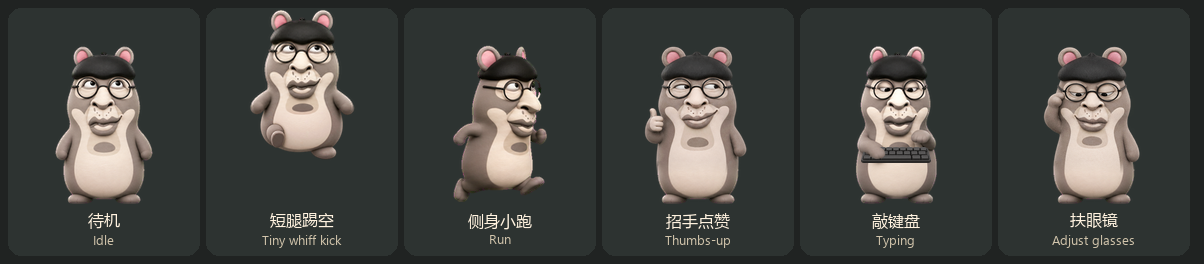
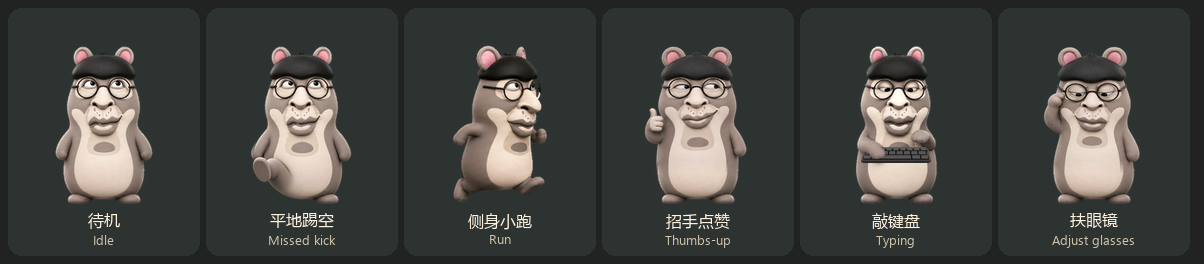
Separate the grounded kick from the hover jump

Changed region(s): [[0.1844, 0.0303, 0.3073, 0.7879], [0.2151, 0.7879, 0.2766, 0.9394]]

diff --git a/README.md b/README.md
@@ -1,22 +1,22 @@
 # 飞飞鼠 · Feifeishu for Codex
 
-飞飞鼠是可以装进 **Codex 桌面应用**的 Faker 梗图桌宠，也叫大飞鼠、飞天鼠。它戴着圆眼镜，努力朝镜头蹬了一下，结果小短腿够不着，忙着收脚站稳。
+飞飞鼠是可以装进 **Codex 桌面应用**的 Faker 梗图桌宠，也叫大飞鼠、飞天鼠。它戴着圆眼镜，一只脚踩地，另一条腿努力朝镜头伸一下，踢空了才捂脸偷看。
 
-**Feifeishu** is an animated **Codex desktop pet** inspired by the **Faker Flying Squirrel** and **Faker Flying Mouse** memes. Hover over it and watch its tiny leg swing, miss, and scramble back into balance. It also waves, types with alternating paws, and pushes up its glasses during review.
+**Feifeishu** is an animated **Codex desktop pet** inspired by the **Faker Flying Squirrel** and **Faker Flying Mouse** memes. When a task fails, it plants one foot, reaches forward with the other, misses, and peeks out from behind its paws. It also waves, types with alternating paws, and adjusts its glasses during review.
 
 [**下载 Windows 安装包 · Download for Windows**](https://github.com/99Like-wjj/feifeishu-codex-pet/releases/latest/download/feifeishu-codex-pet-windows.zip) · [版本记录 · Releases](https://github.com/99Like-wjj/feifeishu-codex-pet/releases)
 
-![最终版飞飞鼠的待机、短腿踢空、侧面跑动、点赞、敲键盘和扶眼镜](docs/images/preview.png)
+![最终版飞飞鼠的待机、平地踢空、侧面跑动、点赞、敲键盘和扶眼镜](docs/images/preview.png)
 
-## 怎么触发短腿踢空 · Hover to see the kick
+## 平地踢空 · Grounded kick
 
-把鼠标移到 **悬浮桌宠身上** 并停一下。飞飞鼠会沿用 Codex 的悬停跳跃，蹦起来伸一只小脚，踢空后收腿、张爪，落地站稳。
+**任务失败时**，飞飞鼠先抬脚，伸腿朝镜头踢一下，踩地的那只脚撑住身体。踢空后它立刻收腿，愣一下才捂脸偷看。**鼠标悬停**时播放普通跳跃。
 
-Hover over the **floating desktop pet** and pause briefly. The move plays at the top of Codex’s existing hover jump, followed by a quick recovery and landing.
+The grounded kick plays in the desktop pet’s **failed task** animation. Hover over the floating pet to see its regular hop.
 
-![飞飞鼠跳起来伸出小短腿，踢空后张开爪子找平衡](docs/images/hover-kick.gif)
+![飞飞鼠踩住一只脚，伸出另一条腿踢空，收脚后捂脸偷看](docs/images/ground-kick.gif)
 
-动作参考了视频约 1.7 秒和 10.2 秒处向镜头探脚、迅速收回的节奏。[飞飞鼠与马头羊（再补档）](https://www.bilibili.com/video/BV1Gj476zEQL/)
+动作参考了视频约 1.67–1.97 秒处向镜头伸腿的轮廓，以及约 10.20–10.57 秒处的伸腿与收脚节奏。[飞飞鼠与马头羊（再补档）](https://www.bilibili.com/video/BV1Gj476zEQL/)
 
 <details>
 <summary>播放九种状态 · Watch all nine animations</summary>
@@ -46,8 +46,8 @@ Hover over the **floating desktop pet** and pause briefly. The move plays at the
 | 待机 | 眨眼、憋笑 | Blink and smirk |
 | 左右走动 | 侧身小跑 | Run left or right |
 | 招手 | 挥爪后竖拇指 | Wave and give a thumbs-up |
-| 悬停跳跃 | 起跳、踢空、张爪收腿、落地 | Hop, miss with a tiny kick, recover, and land |
-| 失误 | 捂脸后从手后偷看 | Facepalm and peek |
+| 悬停跳跃 | 起跳、腾空、落地 | Hop and land |
+| 任务失败 | 站着伸腿踢空，收脚后捂脸偷看 | Grounded kick, whiff, facepalm, and peek |
 | 等待 | 合手等一会儿，再摊开手 | Clasp paws, then shrug |
 | 工作 | 左右爪交替敲小键盘 | Type with alternating paws |
 | 审阅 | 眯眼扶镜框 | Squint and adjust glasses |
